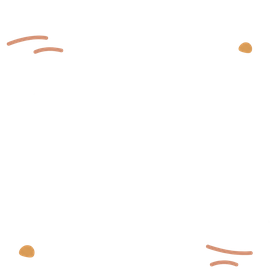
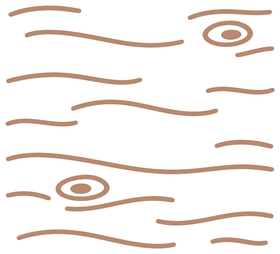
Flip both sides' traps, fill the squares, and mark the river's six cells
The traps were backwards on both sides, so the flip moved from the green
half to the red one.

Occupancy is no longer one number for everything. A lily, a den and a
trap are different shapes carrying different weight, and holding them all
to the same percentage left them floating in their squares: lily 54→84%,
den 62×86→92×100%, trap 72→94%, crocodile 112→124%, animals 92×78→96×84%.

Codex drew the river's dashed grid and redrew the earth texture. The grid
is a 2:3 overlay with its lines at exactly 50% and 33.3%/66.7%, so
stretching it across a pool lands them on the real cell boundaries -- each
pool now reads as the six squares it is. The earth was too faint to see;
it now carries visible grain and knots while staying background.

My own check of the grid was wrong: composited in PIL at final size the
dashes vanished and I was about to send it back for being too faint. In
the browser they read fine -- the difference is resampling. The test that
matters is the one in the medium the thing actually runs in.

diff --git a/art/preview.html b/art/preview.html
@@ -78,6 +78,12 @@
     position: absolute; inset: 0;
     background-repeat: repeat; background-size: 50% auto; opacity: .5;
   }
+  /* codex 画的虚线网格，2 列 3 行。整张拉伸铺满 —— 它的线就画在
+     50% / 33.3% / 66.7% 上，所以拉伸后正好落在真实格线位置。 */
+  .pool .grid {
+    position: absolute; inset: 0;
+    background-repeat: no-repeat; background-size: 100% 100%;
+  }
   .pool .riv {
     position: absolute; left: 0; right: 0; text-align: center;
     color: #fff; font-weight: 800; font-size: var(--river-text); line-height: 1;
@@ -92,7 +98,7 @@
   }
   .piece .an {
     position: absolute; left: 50%; bottom: 2px; transform: translateX(-50%);
-    width: 92%; height: 78%;
+    width: 96%; height: 84%;
     background-repeat: no-repeat; background-position: bottom center;
     background-size: contain;
   }
@@ -152,12 +158,12 @@
     const i = idx(c, r), sq = el('div', 'sq');
     let bg = '';
     if (isWater(i)) { sq.classList.add('water');
-      if (isCroc(i)) sq.appendChild(terr(A + 'croc.png', 112, 112));
-      else if (LILY.includes(i)) sq.appendChild(terr(A + 'lily.png', 54, 54));
-    } else if (i === idx(3,8)) { bg = 'var(--den-bg)'; sq.appendChild(terr(A + 'den-mine.png', 62, 86)); }
-    else if (i === idx(3,0)) { bg = 'var(--den-bg)'; sq.appendChild(terr(A + 'den-foe.png', 62, 86, true)); }
-    // 绿方（下方）的陷阱转 180 度，夹口朝向自己这边
-    else if (TRAPS.includes(i)) { bg = 'var(--trap-bg)'; sq.appendChild(terr(A + 'trap.png', 72, 72, r >= 6)); }
+      if (isCroc(i)) sq.appendChild(terr(A + 'croc.png', 124, 124));
+      else if (LILY.includes(i)) sq.appendChild(terr(A + 'lily.png', 84, 84));
+    } else if (i === idx(3,8)) { bg = 'var(--den-bg)'; sq.appendChild(terr(A + 'den-mine.png', 92, 100)); }
+    else if (i === idx(3,0)) { bg = 'var(--den-bg)'; sq.appendChild(terr(A + 'den-foe.png', 92, 100, true)); }
+    // 陷阱：两边各自朝向自己的兽穴。翻红方（上方）这一侧。
+    else if (TRAPS.includes(i)) { bg = 'var(--trap-bg)'; sq.appendChild(terr(A + 'trap.png', 94, 94, r <= 2)); }
     else if (r <= 2) { bg = 'var(--grass-foe)'; sq.appendChild(deco(A + 'ground-foe.png')); }
     else if (r >= 6) { bg = 'var(--grass-mine)'; sq.appendChild(deco(A + 'ground-mine.png')); }
     else { bg = 'var(--earth)'; sq.appendChild(deco(A + 'ground-earth.png')); }
@@ -201,6 +207,8 @@
       pool.style.height = (3 * ch + 2 * gap) + 'px';
       const w = el('div', 'wav'); w.style.backgroundImage = `url(${A}river.png)`;
       pool.appendChild(w);
+      const g = el('div', 'grid'); g.style.backgroundImage = `url(${A}river-grid.png)`;
+      pool.appendChild(g);
       for (const [ch2, cls] of [['小','a'], ['河','b']]) {
         const t = el('div', 'riv ' + cls); t.textContent = ch2; pool.appendChild(t);
       }
